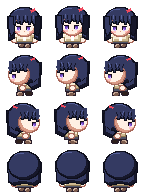
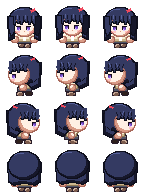
ちびキャラ：全体の幅はそのままに、胴を細く、肩と手を大きく
Claude-Session: https://claude.ai/code/session_017gxvkc2TW4xYgG5MuSL3N1

diff --git a/files.js b/files.js
@@ -2,7 +2,7 @@
 // マップなどを足したら scripts に1行足す（順番どおりに読み込む。main.js は最後）。
 // 版の番号 v は tools/stamp.py が書き換える。
 window.FILES = {
-  v: '20261127035139',
+  v: '20261127035531',
   scripts: [
     'engine/core.js',
     'engine/world.js',

diff --git a/tools/sprites/make_chibi.py b/tools/sprites/make_chibi.py
@@ -132,9 +132,9 @@ def body(a, c, side, step, back):
             a.part([('p', [(-5, 37.4), (5, 37.4), (6.4, 42), (-6.4, 42)])], c['low1'], c['low2'], shade=c['low2'], line=c['line'], lw=0.7)
         else:
             a.part([('p', [(-4.2, 38.6), (4.2, 38.6), (4.4, 44.4), (-4.4, 44.4)])], c['low1'], c['low2'], shade=c['low2'], line=c['line'], lw=0.7)
-        a.part([('p', [(-4.6, 32.4), (4.8, 32.4), (5, 39.4), (-4.8, 39.4)]), ('e', -5.4, 31, 5.4, 35)], c['top1'], c['top2'], shade=c['top2'], line=c['topLine'], lw=0.7)
+        a.part([('p', [(-3.8, 34), (4, 34), (4.4, 39.4), (-4.2, 39.4)]), ('e', -6.4, 31.4, 6.4, 37)], c['top1'], c['top2'], shade=c['top2'], line=c['topLine'], lw=0.7)
         a.part([('p', [(-1.8, 33.2), (2, 33.2), (2 + sw, 38.4), (-1.8 + sw, 38.4)])], c['top1'], c['top2'], line=c['topLine'], lw=0.6)
-        a.part([('e', -1.9 + sw, 37.6, 1.9 + sw, 41)], c['skin1'], c['skin2'], line=c['skinLine'], lw=0.5)
+        a.part([('e', -2.3 + sw, 37.2, 2.3 + sw, 41.4)], c['skin1'], c['skin2'], shade=c['skinS'], line=c['skinLine'], lw=0.5)
         if girl:
             a.part([('p', [(-5.4, 32.6), (-3, 32.6), (-4, 35.4)])], c['ribbon1'], c['ribbon2'], lw=0.4)
         return
@@ -144,18 +144,18 @@ def body(a, c, side, step, back):
             a.part([('r', x0 + 0.8, 41, x1 - 0.8, 44.4 - l)], c['leg'], c['leg'], line=c['line'], lw=0.6)
         a.part([('e', x0, 44.2 - l, x1, 47 - l)], c['shoe1'], c['shoe2'], light=(210, 180, 160), line=c['line'], lw=0.7, la=0.6)
     if girl:
-        a.part([('p', [(-6, 37.2), (6, 37.2), (7.6, 42), (-7.6, 42)])], c['low1'], c['low2'], shade=c['low2'], line=c['line'], lw=0.7)
+        a.part([('p', [(-4.8, 37.4), (4.8, 37.4), (6.4, 42), (-6.4, 42)])], c['low1'], c['low2'], shade=c['low2'], line=c['line'], lw=0.7)
     else:
-        for x0, x1, l in ((-5.4, -0.4, la), (0.4, 5.4, ra)):
+        for x0, x1, l in ((-4.6, -0.4, la), (0.4, 4.6, ra)):
             a.part([('p', [(x0, 38.6), (x1, 38.6), (x1, 44 - l), (x0, 44 - l)])], c['low1'], c['low2'], shade=c['low2'], line=c['line'], lw=0.7)
-    for s in (-1, 1):  # 腕：肩から外へ開く
-        a.part([('p', [(s * 7, 35), (s * 9.2, 35), (s * 10.8, 38.6), (s * 8.6, 39.4)])], c['top1'], c['top2'], shade=c['top2'], line=c['topLine'], lw=0.6)
-        a.part([('e', s * 9.8 - 1.9, 37.4, s * 9.8 + 1.9, 41)], c['skin1'], c['skin2'], line=c['skinLine'], lw=0.5)
-    # 胴（上から見下ろすので、肩の上の面が見える）
-    m = a.part([('p', [(-7, 35), (7, 35), (7.2, 39.6), (-7.2, 39.6)]), ('e', -9.4, 32.8, -2.6, 37.4), ('e', 2.6, 32.8, 9.4, 37.4)],
+    for s in (-1, 1):  # 腕：大きな肩から外へ開く
+        a.part([('p', [(s * 7.2, 35.4), (s * 9.8, 35.4), (s * 10.8, 38.4), (s * 8.4, 39.2)])], c['top1'], c['top2'], shade=c['top2'], line=c['topLine'], lw=0.6)
+    # 胴は細く、肩は大きく（上から見下ろすので、肩の丸みと上の面が見える）
+    m = a.part([('p', [(-5.2, 35), (5.2, 35), (5.8, 39.6), (-5.8, 39.6)]), ('e', -10.2, 32.6, -2.4, 38.2), ('e', 2.4, 32.6, 10.2, 38.2)],
                c['top1'], c['top2'], shade=c['top2'], light=(255, 252, 240), line=c['topLine'], lw=0.7)
     for s in (-1, 1):
-        a.stroke([(s * 8.2, 34.2), (s * 4, 33.6)], (255, 253, 244))  # 肩の上の面（あごの下に見える）
+        a.stroke([(s * 9, 34.2), (s * 4, 33.4)], (255, 253, 244))  # 肩の上の面（あごの下に見える）
+        a.part([('e', s * 9.8 - 2.4, 36.8, s * 9.8 + 2.4, 41.4)], c['skin1'], c['skin2'], shade=c['skinS'], line=c['skinLine'], lw=0.5)  # 大きめの手
     if not back:
         if girl:
             a.clip(m, [('p', [(-1.4, 32.4), (1.4, 32.4), (1.4, 39.6), (-1.4, 39.6)])], c['inner'], 1.0)
@@ -164,7 +164,7 @@ def body(a, c, side, step, back):
             a.clip(m, [('p', [(-1.8, 32.4), (1.8, 32.4), (0, 35)])], c['inner'], 1.0)
             a.clip(m, [('r', -0.2, 35, 0.2, 38.4)], c['topLine'], 0.7)
     if not girl:
-        a.part([('r', -6.8, 38.2, 6.8, 39.6)], c['ribbon1'], c['ribbon2'], lw=0.4)  # ベルト
+        a.part([('r', -5.6, 38.2, 5.6, 39.6)], c['ribbon1'], c['ribbon2'], lw=0.4)  # ベルト
 
 
 # ---------------- 頭（大きく、前髪は目のすぐ上まで、目は大きく下寄り） ----------------

diff --git a/CLAUDE.md b/CLAUDE.md
@@ -10,7 +10,7 @@
 - 校舎（廊下8枚と部屋の型）は `tools/gen_school.py` で生成する。生成した `data/maps/school_*.js` は直接直さず、スクリプトを直して作り直す。お話のイベントは `data/story.js` に `G.addEvents` で足す（`at: '扉の名前'` で位置を決められる）。見取り図の施設名のうち学校が特定されそうな名前は一般的な名前に変える
 - 参考にした市販ゲームのファイル（データ・画像・音・シナリオ）はこのリポジトリに入れない
 - タイル素材（ドット絵世界）は二次配布禁止。元のPNGは入れず、`tools/encode_tileset.py` で変換した `data/tilesets/*.js` だけを入れる。タイトル画面の著作権表示（system.js の credits）は消さない
-- キャラの歩行グラフィックは、いまはちびキャラ（手本：RPGツクールMVの標準キャラの比率、約1.5頭身、1コマ48×48px）。`tools/sprites/make_chibi.py` で描き、`img/chars/haru_chibi.png`・`img/chars/yui_chibi.png` に書き出す。塗りは手本と同じくっきりしたドット絵（48×48pxに直接描く。ベタ塗り、段をつけた影と光、部品ごとに1ドットの濃い輪郭、目は1ドットずつ形を決め、白い光はほぼ使わず外側の白目と上が濃い瞳で表す。髪のかたまりは小さめで額は高め、前髪には毛束の明るい筋を1本おきに入れて凹凸を出す。胴は肩が細く裾へ広がる八の字で、腕も外へ開く。前髪は短めで毛先の間から額が見え、目はまるごと見せる。やや上から見下ろしつつ足先まで全身を見せる（胴→スカート／ズボン→短い脚→上から見た平たく小さい靴）。目は顔の大きさを変えずに大きく（横5ドット、黒目が3ドット幅）。見下ろす角度なので、肩の丸みと上の面があごのすぐ下に見え、口は省いて鼻を1ドットの点で表す。幅の割合は、手を含めた体が頭の約8割、胴〜足が頭の約半分、残り約3割が左右の手）。手本を使うときは、数字で測るだけでなく必ず拡大して絵そのものを見比べる。「イラストを縮めた柔らかい塗り」は4頭身のための試しで、ちびキャラには使わない。3頭身・4頭身は見送り。約4頭身の版（`make_trial.py`→`trial.png`、`make_haru.py`→`haru.png`）も残してある。手本の絵は写さない（比率と描き方だけ合わせる）。直したらスクリプトを動かして画像を作り直す
+- キャラの歩行グラフィックは、いまはちびキャラ（手本：RPGツクールMVの標準キャラの比率、約1.5頭身、1コマ48×48px）。`tools/sprites/make_chibi.py` で描き、`img/chars/haru_chibi.png`・`img/chars/yui_chibi.png` に書き出す。塗りは手本と同じくっきりしたドット絵（48×48pxに直接描く。ベタ塗り、段をつけた影と光、部品ごとに1ドットの濃い輪郭、目は1ドットずつ形を決め、白い光はほぼ使わず外側の白目と上が濃い瞳で表す。髪のかたまりは小さめで額は高め、前髪には毛束の明るい筋を1本おきに入れて凹凸を出す。胴は肩が細く裾へ広がる八の字で、腕も外へ開く。前髪は短めで毛先の間から額が見え、目はまるごと見せる。やや上から見下ろしつつ足先まで全身を見せる（胴→スカート／ズボン→短い脚→上から見た平たく小さい靴）。目は顔の大きさを変えずに大きく（横5ドット、黒目が3ドット幅）。見下ろす角度なので、肩の丸みと上の面があごのすぐ下に見え、口は省いて鼻を1ドットの点で表す。幅の割合は、手を含めた体が頭の約8割。その中で胴は細く、肩と手を大きめにする）。手本を使うときは、数字で測るだけでなく必ず拡大して絵そのものを見比べる。「イラストを縮めた柔らかい塗り」は4頭身のための試しで、ちびキャラには使わない。3頭身・4頭身は見送り。約4頭身の版（`make_trial.py`→`trial.png`、`make_haru.py`→`haru.png`）も残してある。手本の絵は写さない（比率と描き方だけ合わせる）。直したらスクリプトを動かして画像を作り直す
 - 字体：ゲームの文字は M+ 1m（`fonts/mplus-1m-regular.ttf`、M+ FONTS は自由に使用・配布できる）。`G.font()` と css/style.css で指定している。収録外の文字（♪など）は端末のフォントになる
 - 公開は gh-pages ブランチから。更新したら、まず `python3 tools/stamp.py`（files.js の版の番号を新しくする。ブラウザが古いファイルを使い回して新旧が混ざるのを防ぐ）、コミットして `git push origin main main:gh-pages` で両方に送る。そのあと `gh api repos/nzanke/game-test/actions/runs` で「pages build and deployment」が新しいコミットで completed success になったのを確かめてから報告する。ビルドが走らないときは空のコミットを送り直す（Pages 設定のAPIは作業環境から使えない）
 - やりとりと説明は日本語で
